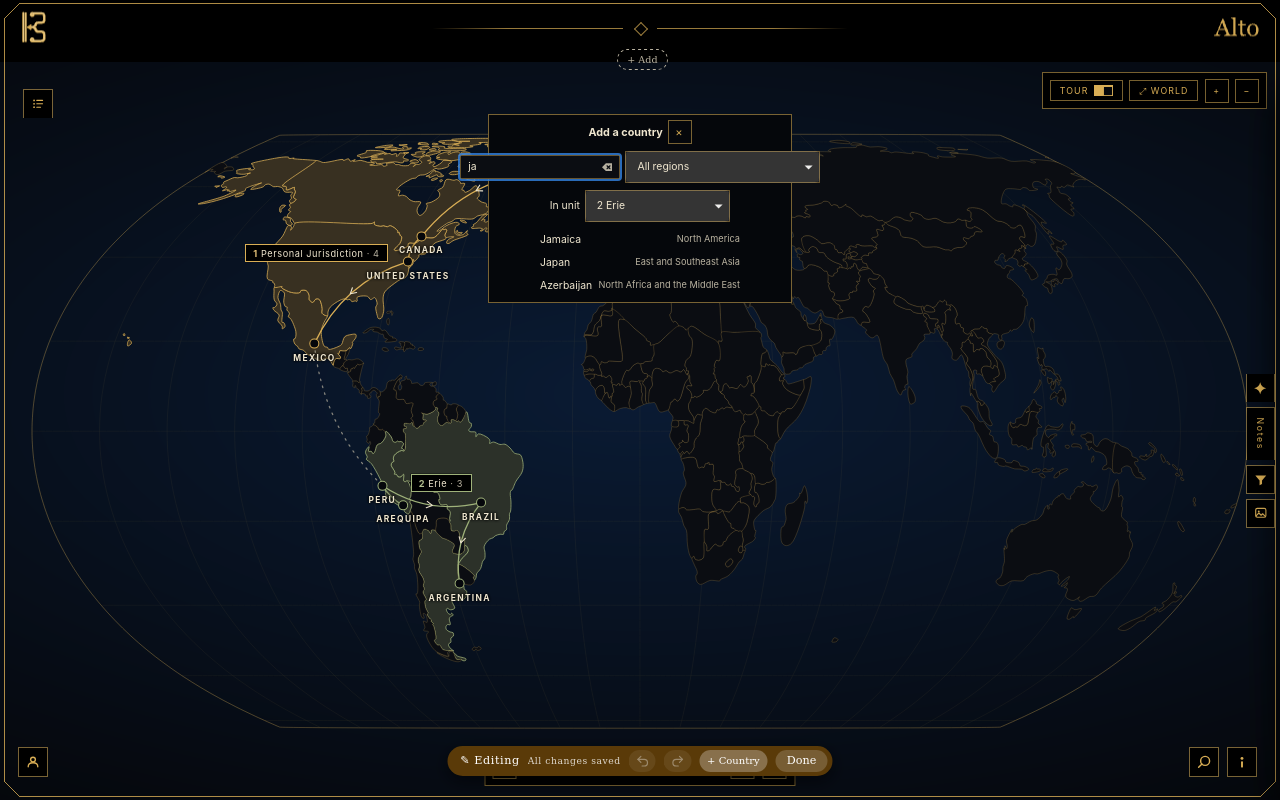
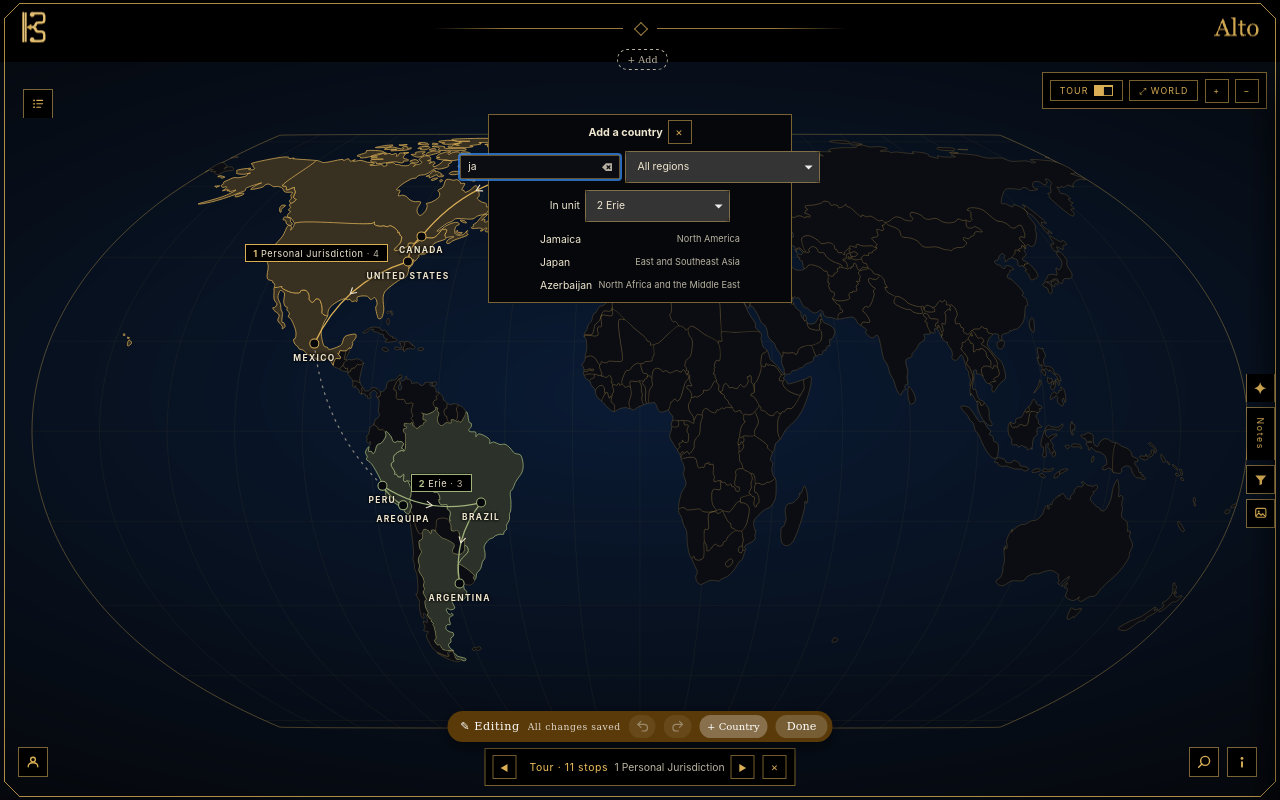
Memory Atlas: the Edit bar sits above the Tour's strip (Art)
Claude-Session: https://claude.ai/code/session_01NpC4JS8LqCZWvnsGcN5wCT

Changed region(s): [[0.3438, 0.875, 0.6562, 0.9688]]

diff --git a/alto/build/palace_world.py b/alto/build/palace_world.py
@@ -126,6 +126,8 @@ html.alto-retro #wpal-root .wp-bar.wp-pick:not(#_){background:#05070b;color-sche
 html.alto-retro #wpal-root .wp-pick :is(input,select):not(#_){border-radius:0;background:#0b0d12;border-color:rgba(217,174,85,.45);}
 html.alto-retro #wpal-root .wp-pick .l button:not(#_){border-radius:0;}
 html.mobile #wpal-root .wp-pick{display:none !important;}
+/* the Edit bar clears the Tour's strip (Art, 2026-10-30) */
+html.alto-editing:has(#wpal-root:not([hidden]) .wp-tour:not([hidden])) #alto-edit-exit{bottom:73px;}
 @media (prefers-reduced-motion: reduce){#wpal-root :is(canvas.wp-globe,svg.wp-svg){transition:none;}}
 @media (prefers-reduced-motion: reduce){#wpal-root :is(.wp-enl,.wp-card){transition:opacity .15s linear;}#wpal-root :is(.wp-enl,.wp-card).wp-grow{scale:1;transition:none;}
   #wpal-root .wp-ghost{transition:opacity .15s linear;}#wpal-root .wp-ghost.wp-fold{scale:1;}}

diff --git a/tests/test_atlas_edit_country.py b/tests/test_atlas_edit_country.py
@@ -158,3 +158,16 @@ def test_one_undo_takes_the_card_and_its_place_back(browser, origin):  # noqa: F
         assert len(page.evaluate(NEW)) == 1
     finally:
         page.close()
+
+
+def test_the_edit_bar_clears_the_tour_strip(browser, origin):  # noqa: F811
+    page = browser.new_page(viewport={"width": 1280, "height": 800})
+    try:
+        page.goto(origin + "/index.html")
+        _ready(page)
+        page.evaluate("AltoWorld.tourMode(true); window._altoManual.enter()")
+        page.wait_for_timeout(400)
+        gap = page.evaluate("(() => { var e = document.getElementById('alto-edit-exit').getBoundingClientRect(), t = document.querySelector('#wpal-root .wp-tour').getBoundingClientRect(); return t.top - e.bottom; })()")
+        assert gap >= 0, gap                                                          # (Art: it sat on the strip)
+    finally:
+        page.close()
